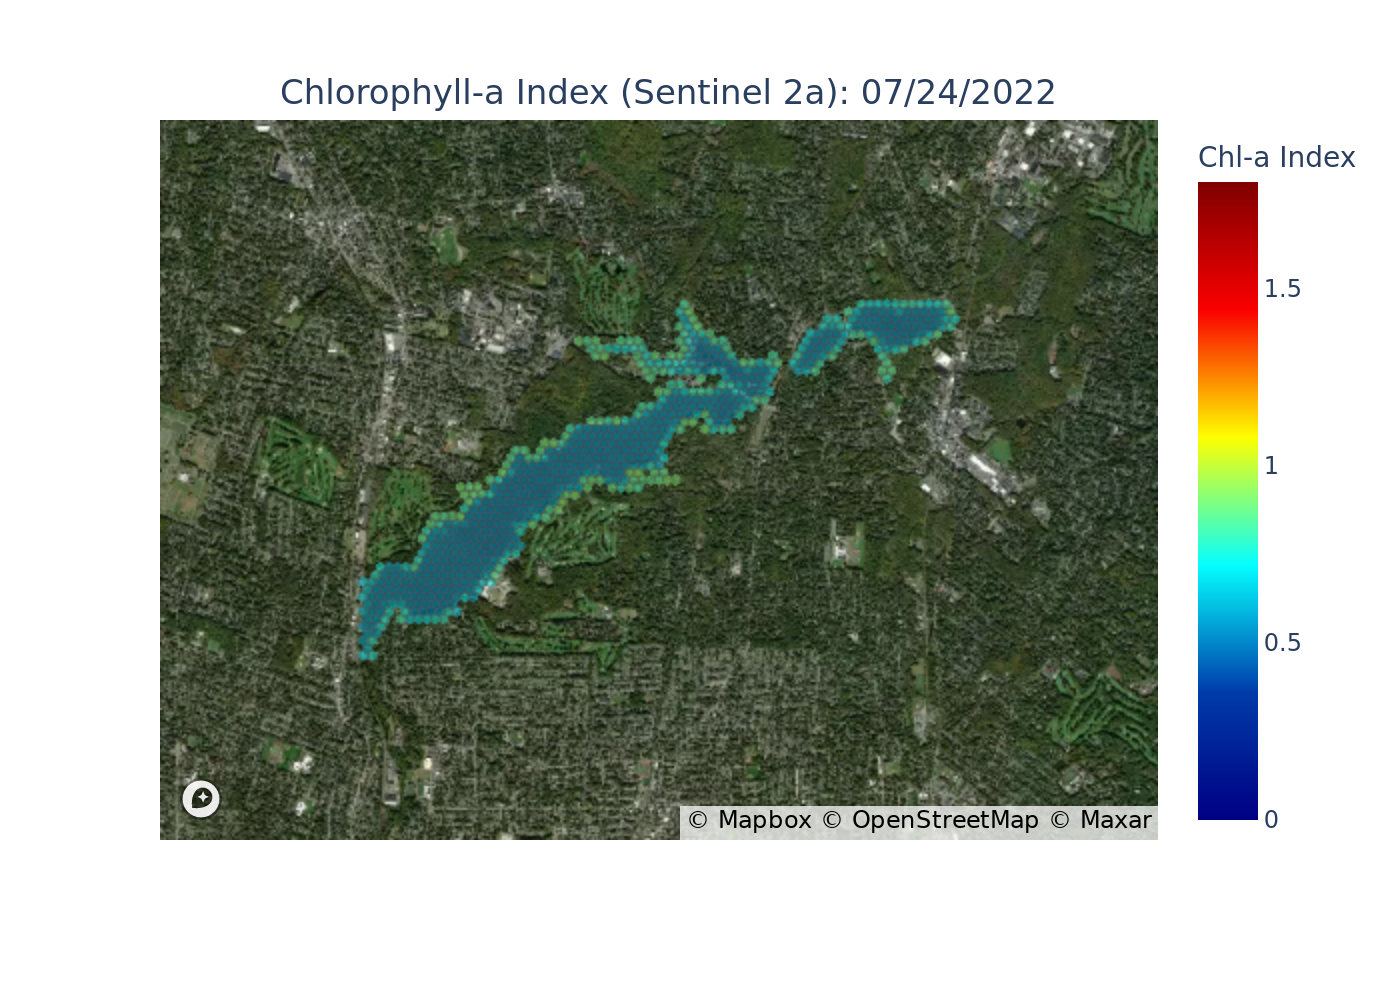
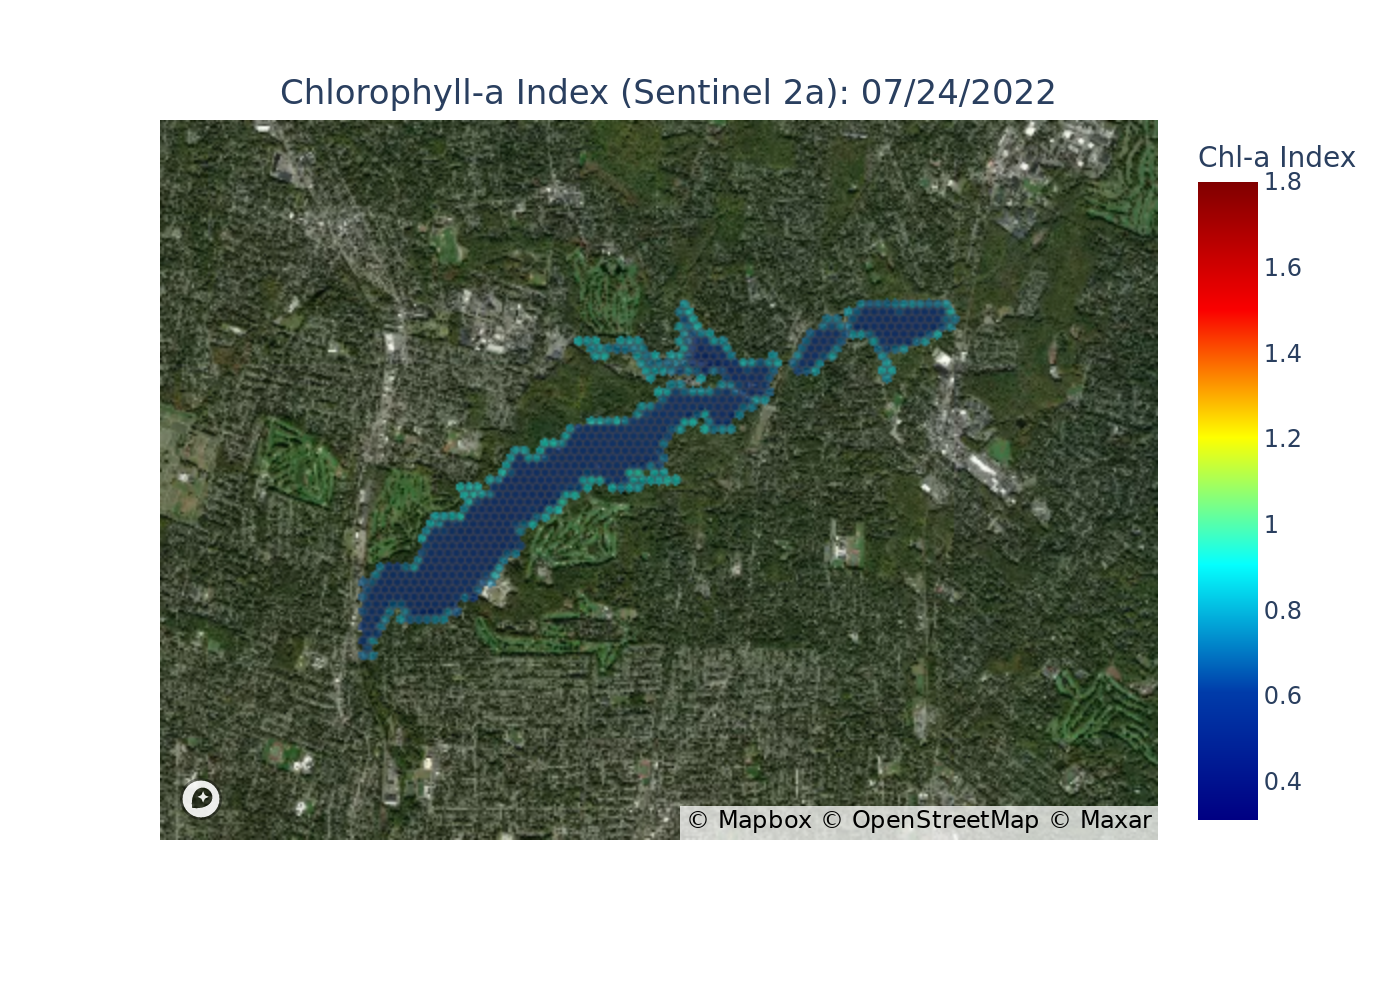
daily blog update

Changed region(s): [[0.2457, 0.279, 0.7064, 0.682], [0.8907, 0.589, 0.9214, 0.651], [0.8907, 0.682, 0.9214, 0.713]]

diff --git a/_posts/2022-07-29-blog050.md b/_posts/2022-07-29-blog050.md
@@ -1,0 +1,44 @@
+---
+title: "Jul 29, 2022"
+excerpt: "HAB update"
+image: /assets/images/oradell.jpg
+tags: 
+  - hab
+  - prediction
+---
+
+Click here to see the live and interactive [Harmful Algal Bloom dashboard](https://oradell.clrwater.io/).
+
+## 7-day Look Ahead Bloom Forecast
+Below are pie charts describing the __probability of a cyanobacterial bloom__. The chart on the left describes the predictions from two weeks ago, and the one on the right describes the latest prediction, for the coming week. 
+![image-center]({{ site.url }}{{ site.baseurl }}/assets/images/20220729/Fig_prediction.png)
+__Probabilities of occurrence (%) of an algal bloom from two weeks ago (left) and for the next 7 days (right).__
+
+## Hotspot Analysis - Chlorophyll-a
+This map shows you the latest estimates of __chlorophyll-a__ from the Sentinel 2a satellite. Note that the color scale is normalized to highlight the hotspots in the image. The colorscale does not provide an indication of the absolute amount of chlorophyll-a in the water and should be interpreted as an "index" of chlorophyll-a (zero being low, and 100 being high).
+![image-center]({{ site.url }}{{ site.baseurl }}/assets/images/20220729/Fig_chla.png){: .align-center}
+<br clear="all" />
+__Latest chlorophyll-a map from the Sentinel 2a satelllite.__
+
+## Hotspot Analysis - CyAN
+This map shows you the latest estimates of the concentration of cyanobacteria (cells/ml) from the EPA CyAN program.
+![image-center]({{ site.url }}{{ site.baseurl }}/assets/images/20220729/Fig_cyan.png){: .align-center}
+<br clear="all" />
+__Latest CyAN map from the EPA.__
+
+## Where we are in the season
+This plot shows the __historical expectation for HAB risk__ over the year. Use this chart to see where we are in the season (identified by the vertical red line). 
+![image-center]({{ site.url }}{{ site.baseurl }}/assets/images/20220729/Fig_climatology.png){: .     align-center}
+__Harmful algal bloom risk over the year__.
+
+## How rainy has it been? 
+We know that in general certain weather conditions promote the likelihood of HABs. Check this chart to see 
+how __wet__ it is, relative to past years. This is simply adding up each day's rainfall, for each year. If the red line is below the orange line, then this year is dryer than average.
+![image-center]({{ site.url }}{{ site.baseurl }}/assets/images/20220729/Fig_precip_cumsum.png){: .     align-center}
+__Precipitation at the lake compared to previous years__.
+
+## How hot has it been? 
+We know that in general certain weather conditions promote the likelihood of HABs. Check this chart to see 
+how __hot__ it is, relative to past years. This is simply adding up each day's temperature, for each year. If the red line is above the orange line, this year is hotter than average.
+![image-center]({{ site.url }}{{ site.baseurl }}/assets/images/20220729/Fig_temp_cumsum.png){: .     align-center}
+__Air temperature at the lake compared to previous years__.
